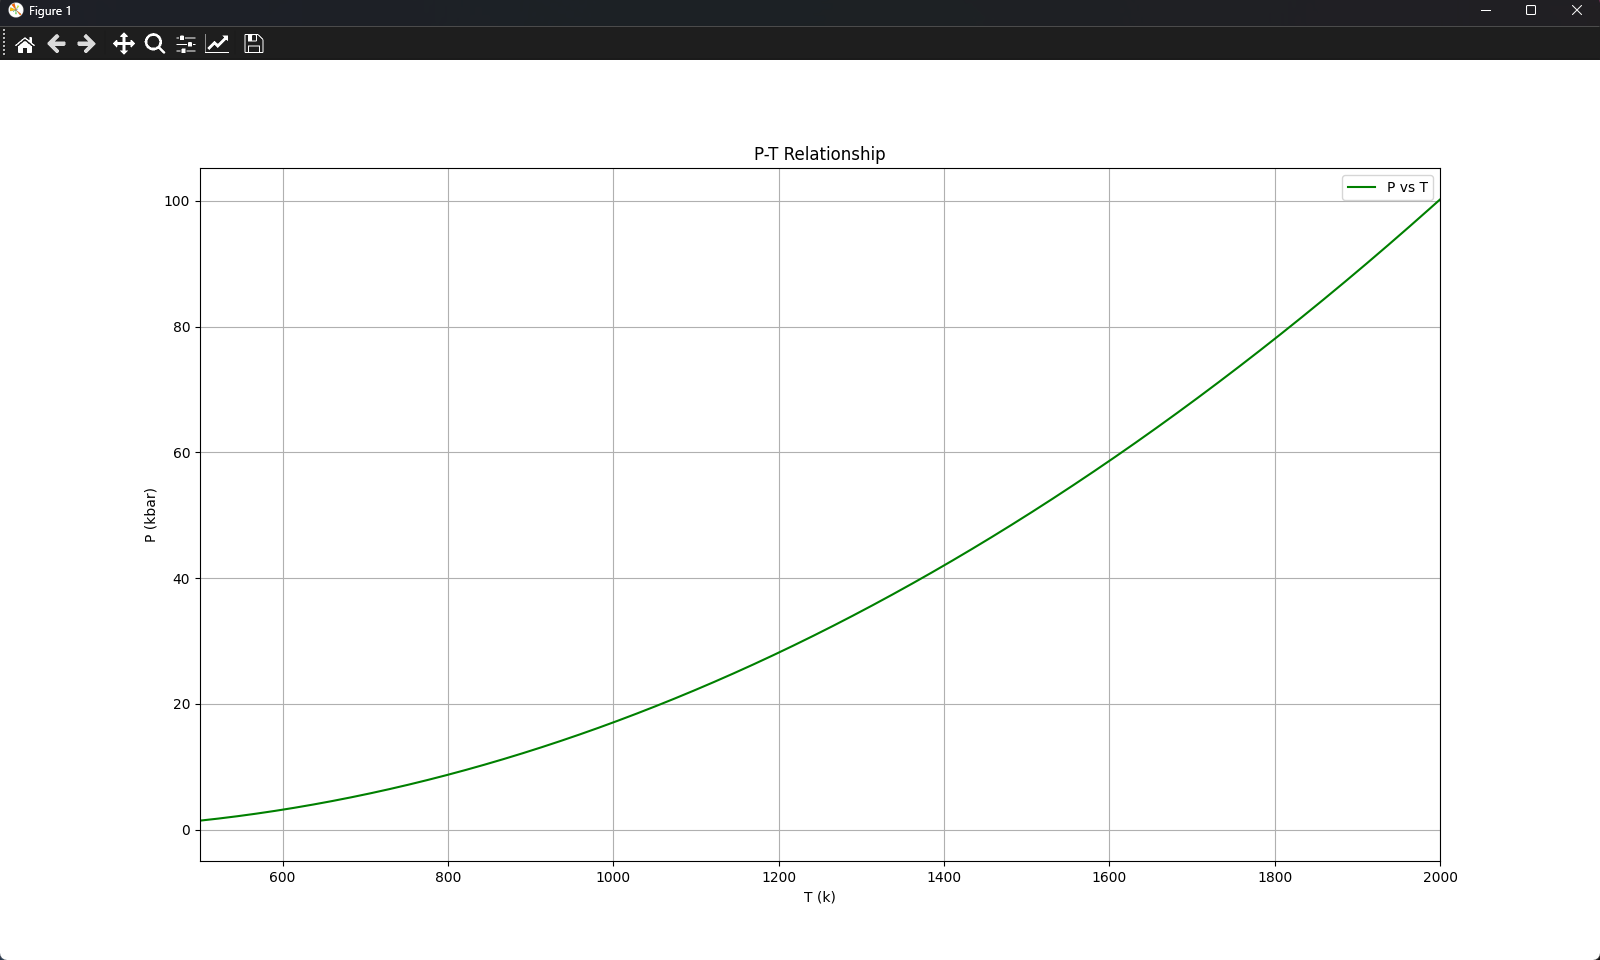
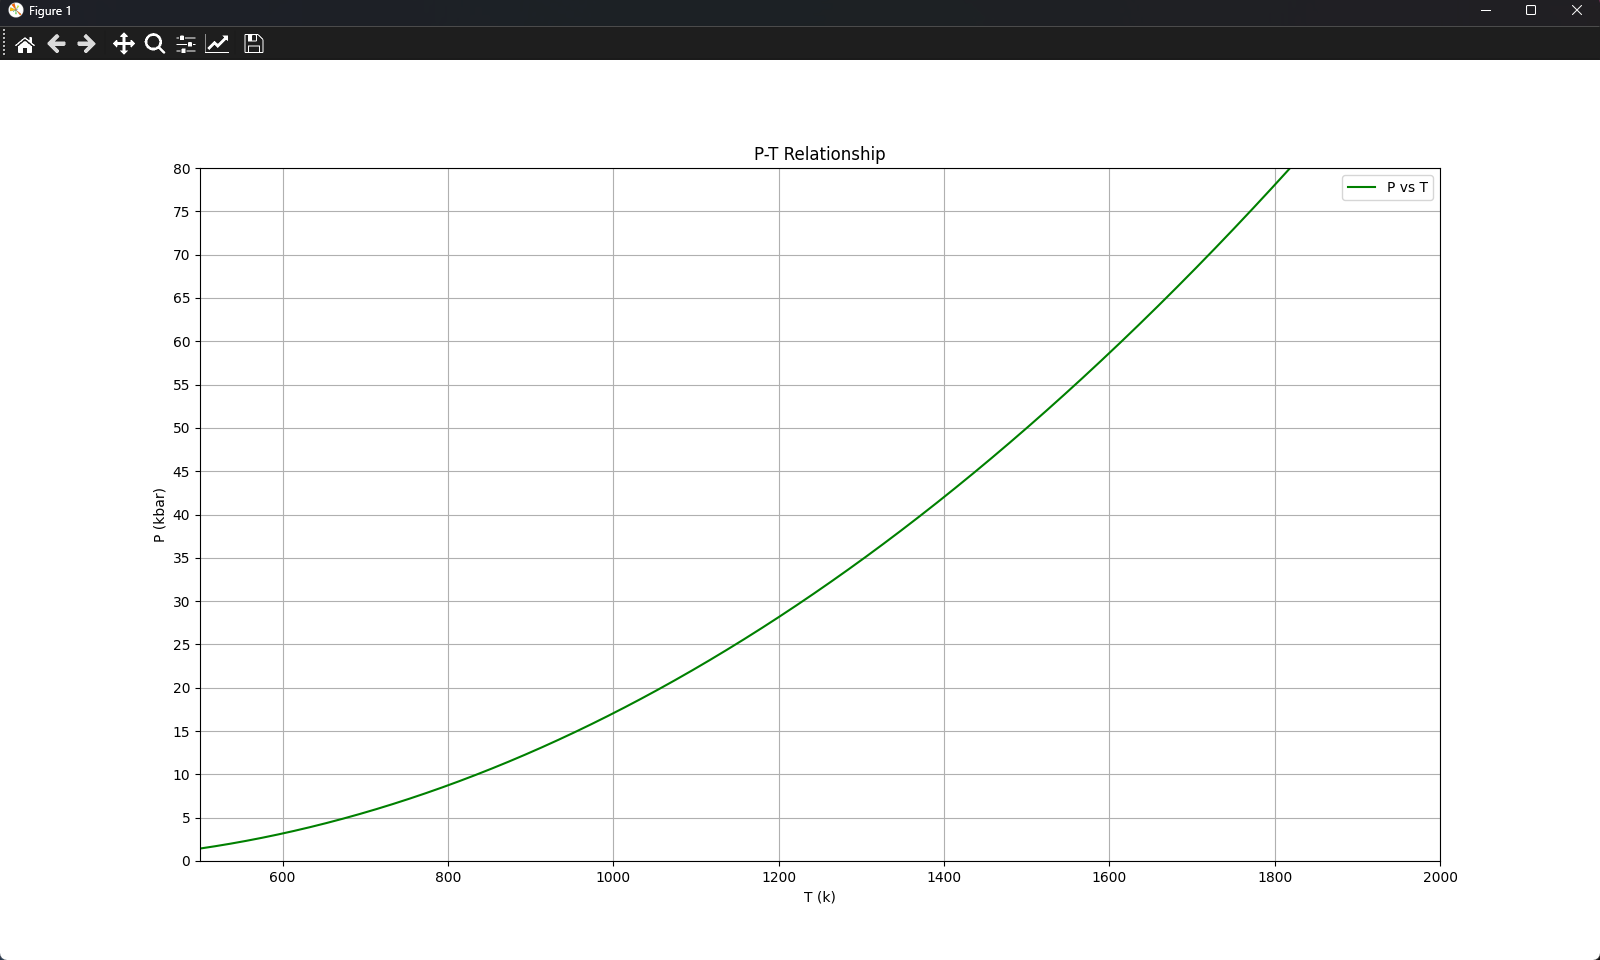
modify:2

diff --git a/tp.py b/tp.py
@@ -36,8 +36,8 @@ for t in T_values:
 plt.figure(figsize=(16, 9))
 plt.plot(T_values, P_values, label='P vs T', color='green')
 plt.xlim(500, 2000) 
-# plt.ylim(0, 80) 
-# plt.yticks(np.arange(0, 81, 5))
+plt.ylim(0, 80) 
+plt.yticks(np.arange(0, 81, 5))
 plt.xlabel('T (k)')
 plt.ylabel('P (kbar)')
 plt.title('P-T Relationship')
